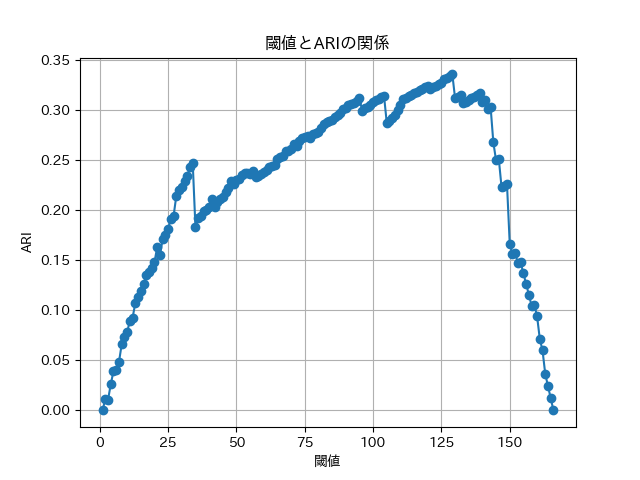
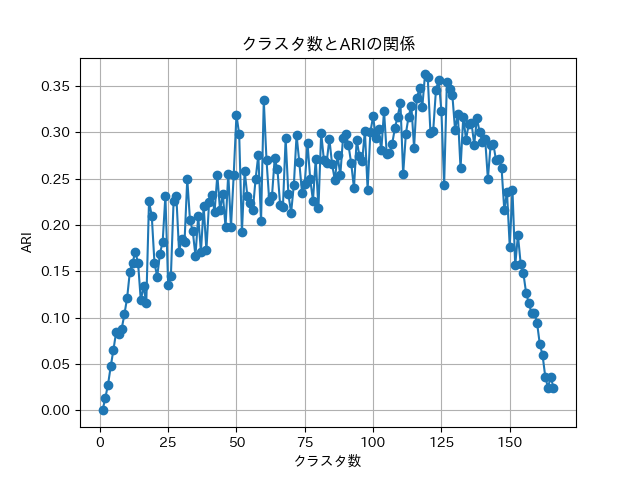
卒論の修正、階層型クラスタリングの記述追加

diff --git a/tex/contents/teian.tex b/tex/contents/teian.tex
@@ -31,7 +31,7 @@
   \caption{本研究の対象アプリ一覧}
   \label{tb:taisyouapuri}
   \begin{center}
-  \begin{tabularx}{\linewidth}{X|l|X}
+  \begin{tabularx}{\linewidth}{l|l|X}
     \hline
     \mbox{アプリ名}\mbox{（一部略称）}&\mbox{Google Playストアの}\mbox{パッケージID}&\mbox{Twitterの}\mbox{検索キーワード}\\\hline\hline
     にゃんトーク&com.akvelon.meowtalk&にゃんトーク\\\hline
@@ -100,13 +100,8 @@
 \end{itemize}
 
 \subsection{クラスタリング手法}
-抽出したオブジェクトのクラスタリングには先行研究のグラフクラスタリング手法\cite{sira}を参考にして実装する. 既存研究では英語の文章をベクトルに変換するためにUniversal Sentence Encoder (USE)を使用しているが, 今回は対象が日本語の文章であるため, Sentence-BERTの日本語モデルを使用する. Sentence-BERT\cite{sentence-bert}とは, 事前学習されたBERTモデルとSiamese Networkを使い, 高品質な文ベクトルを作る手法である. このモデルを使用することで, 高品質な文ベクトルが作成できる. 
-したがって本研究でのクラスタリング手法は下記の手順ある. 
-% \begin{enumerate}
-%   \item Universal Sentence Encoder (USE)を用いて, 問題のある特徴語句を512次元のベクトルに変換
-%   \item 重み付き無向グラフを構成し, 各問題機能をノードとし, 2つの問題機能のUSEベクトル間のコサイン類似度スコアをノード間の重みとする. スコアがある閾値以上の場合, 2つのノード間にエッジを追加. この閾値は入力ハイパーパラメータであり, 問題のある機能間の意味的相関を測定するために使用される. 閾値が高いほどクラスタの結束力が高まる. 
-%   \item このグラフに対して, Chinese Whispers (CW)を実行し, 問題のある特徴量をクラスタリング
-% \end{enumerate}
+抽出したオブジェクトのクラスタリングにはChinese Whispers\cite{chinese-whispers}を使用したグラフクラスタリング手法を提案する. グラフ作成のために抽出したオブジェクトをSentence-BERTの日本語モデルによってベクトルに変換する. Sentence-BERT\cite{sentence-bert}とは, 事前学習されたBERTモデルとSiamese Networkを使い, 高品質な文ベクトルを作る手法である. このモデルを使用することで, 高品質な文ベクトルが作成できる. 
+したがって本研究でのクラスタリング手法は下記の手順である. 
 \begin{enumerate}
   \item Sentence-BERTの日本語モデルを用いて, 抽出した文章をベクトルに変換
   \item 重み付き無向グラフを構成し, 抽出したオブジェクトをノードとし, 2つの抽出した文章間のベクトル間のコサイン類似度スコアをノード間の重みとする. スコアがある閾値以上の場合, 2つのノード間にエッジを追加. この閾値は入力ハイパーパラメータであり, 抽出されたオブジェクト間の意味的相関を測定するために使用される. 閾値が高いほどクラスタの結束力が高まる. 

diff --git a/clustering.py b/clustering.py
@@ -377,12 +377,12 @@ def agg(input_csv_file, category, app_name):
     x_values = [point[0] for point in ari_list]
     y_values = [point[1] for point in ari_list]
     plt.plot(x_values, y_values, marker='o', linestyle='-')
-    plt.title('閾値とARIの関係')
-    plt.xlabel('閾値')
+    plt.title('クラスタ数とARIの関係')
+    plt.xlabel('クラスタ数')
     plt.ylabel('ARI')
     plt.grid(True)
 
-    plt.savefig('tex/contents/images/kmeans_graph.png')
+    plt.savefig('tex/contents/images/agg_graph.png')
 
     print(ari_list)
     print(f'Best ARI: {max_ari}')
